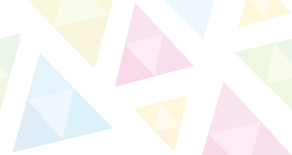
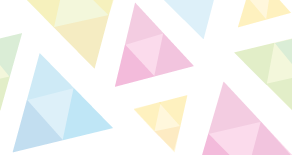
border added to menu

diff --git a/css/custom.css b/css/custom.css
@@ -461,3 +461,43 @@ small.response-danger
 {
     margin-top: 1em;
 }
+.action h1
+{
+    text-shadow: -2px -1px #fff;
+}
+.navbar-nav
+{
+    background-image: url(../images/borde.png);
+    background-repeat-y: no-repeat;
+    background-position: 0 100%;
+    -webkit-animation: slide-navigation 20s linear infinite;
+       -moz-animation: slide-navigation 20s linear infinite;
+        -ms-animation: slide-navigation 20s linear infinite;
+         -o-animation: slide-navigation 20s linear infinite;
+            animation: slide-navigation 20s linear infinite;
+}
+.navbar-nav:hover
+{
+    background-position: 655px 100%;
+}
+@-webkit-keyframes slide-navigation {
+     0% { 
+        background-position: 0 100%;
+     } 
+     100% {
+        background-position: 655px 100%;
+    }
+}
+
+@keyframes slide-navigation {
+  0% { 
+        background-position: 0 100%;
+     } 
+     100% {
+        background-position: 655px 100%;
+    }
+}
+#header .navbar-nav.navbar-right >li:last-child
+{
+    margin-right: 0;
+}

diff --git a/project/app/views/home/index.blade.php b/project/app/views/home/index.blade.php
@@ -130,6 +130,9 @@
                         <img src="{{ asset('images/allies/corpoula.jpg') }}">
                     </div>
                     <div class="">
+                        <img src="{{ asset('images/allies/mision.jpg') }}">
+                    </div>
+                    <div class="">
                         <img src="{{ asset('images/allies/eu.jpg') }}">
                     </div>
                      <div class="">
